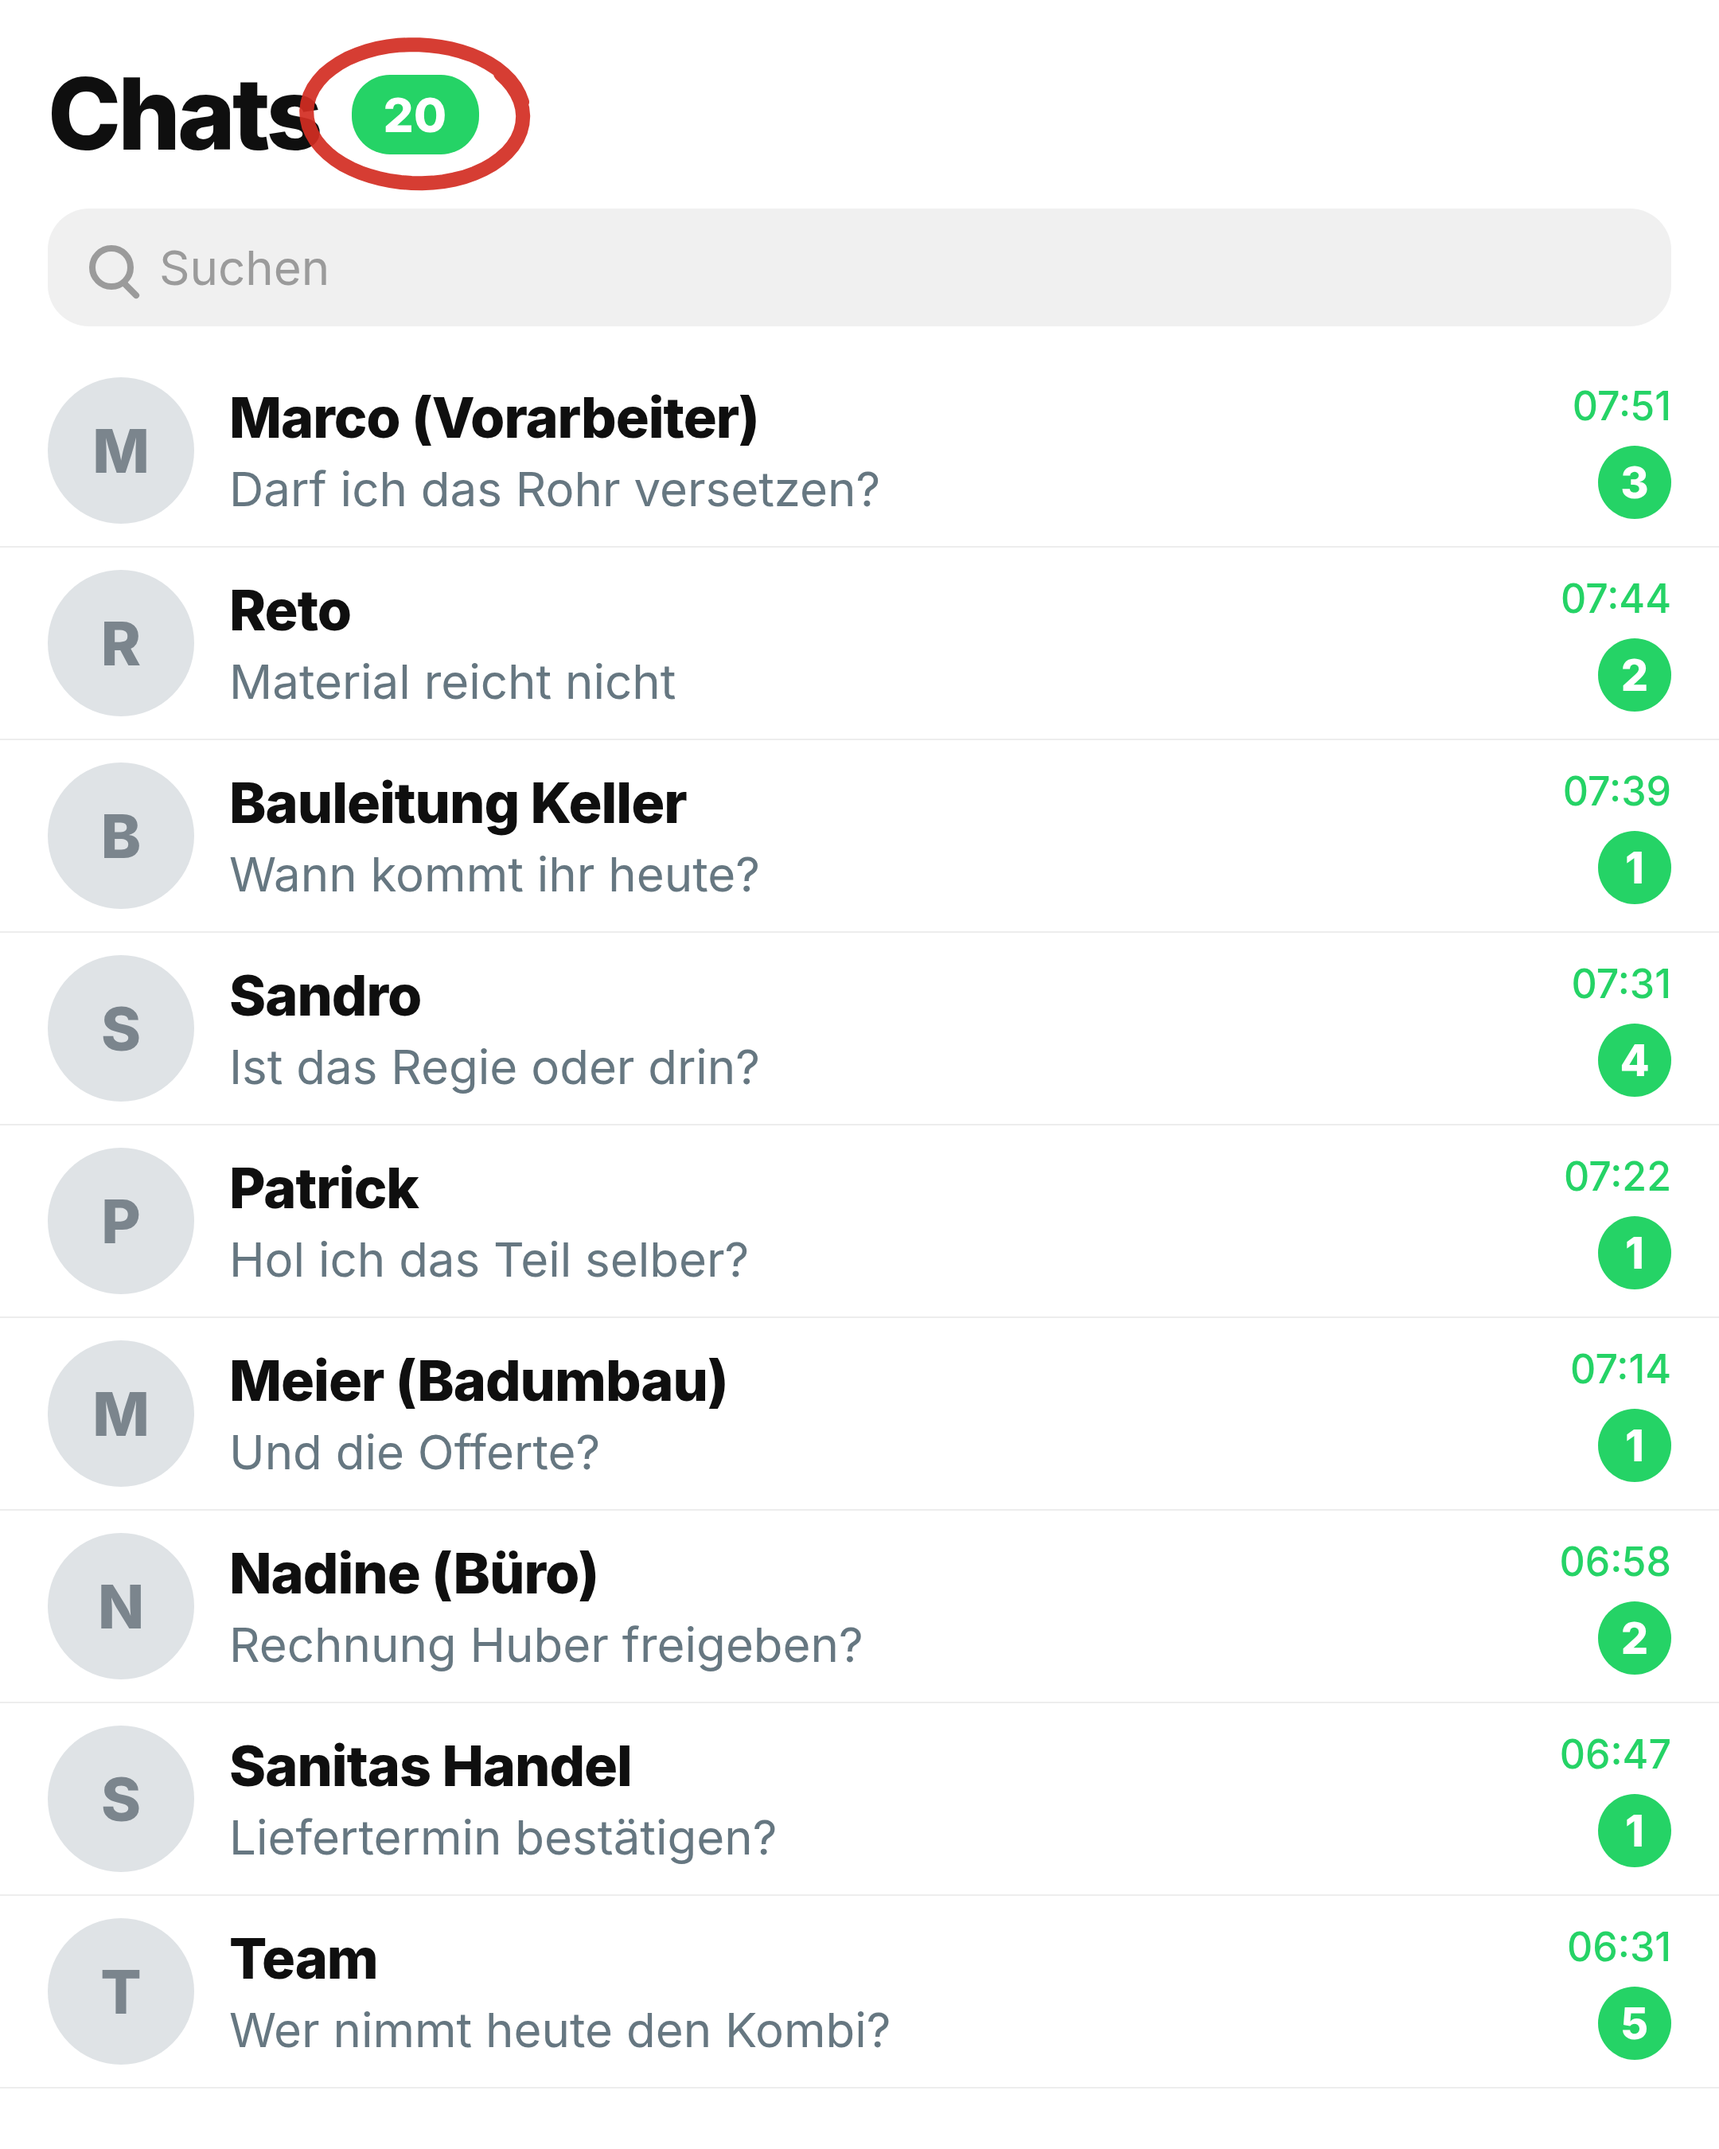
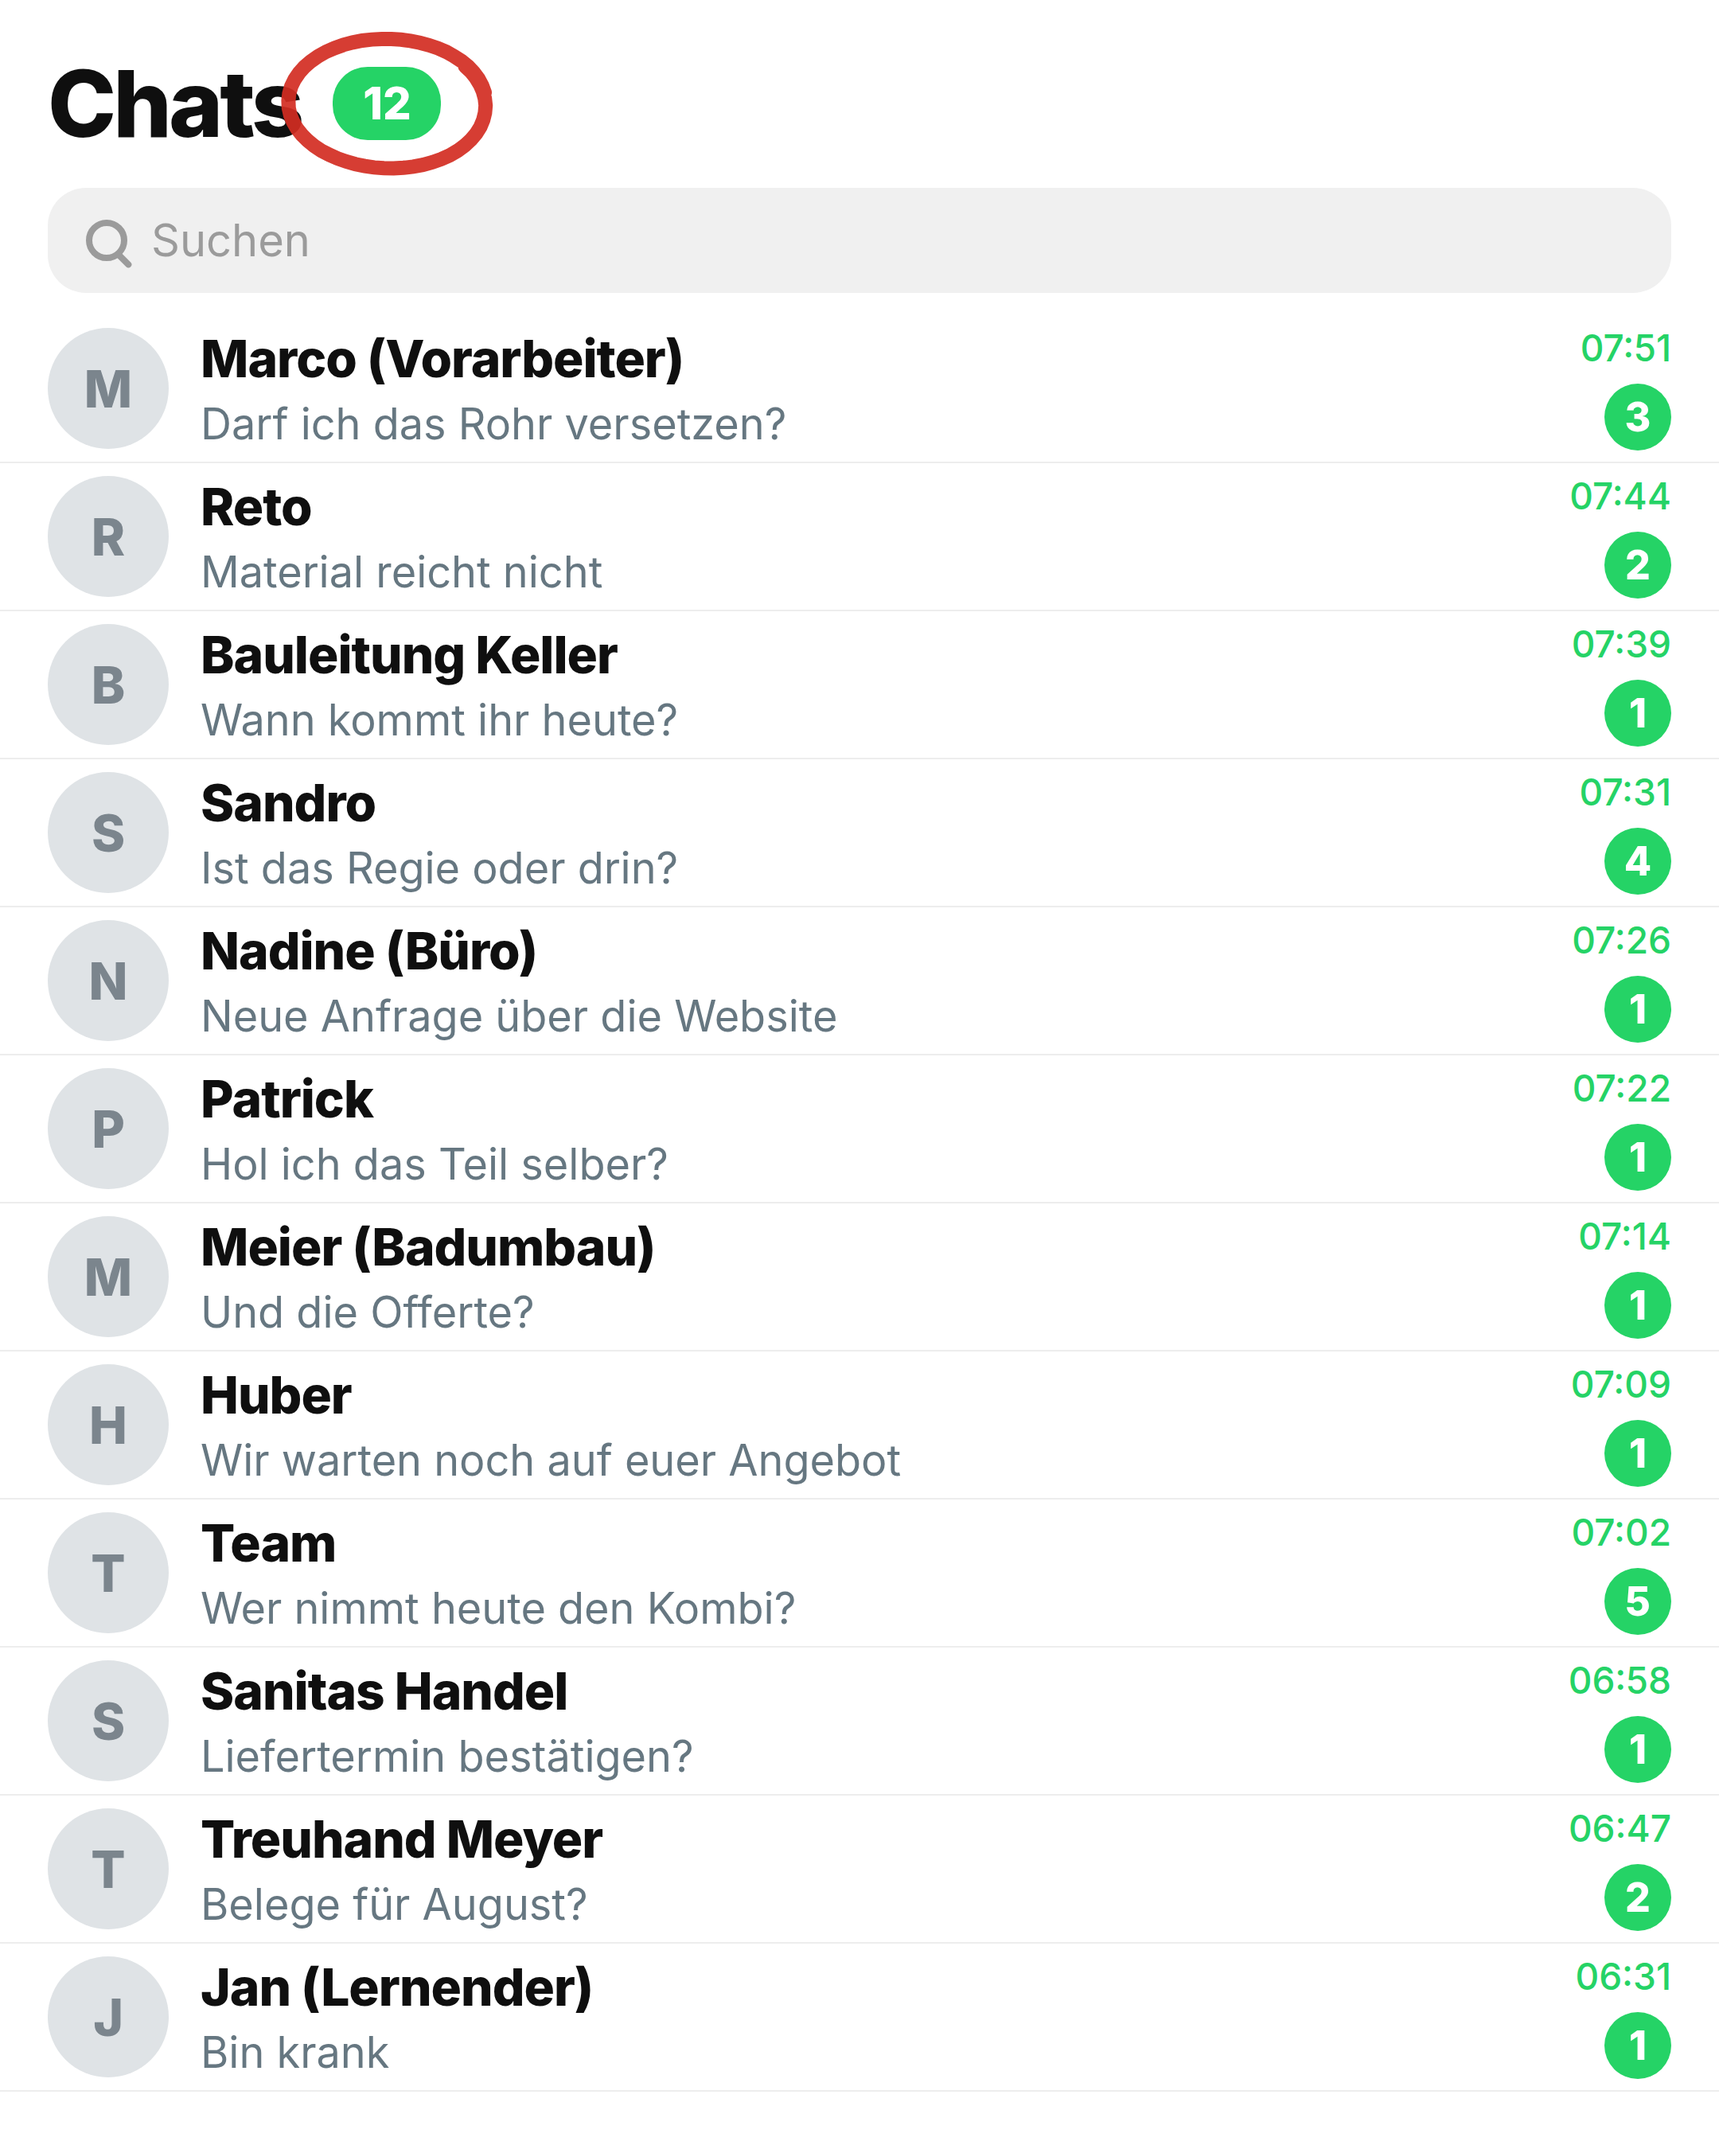
Chatliste auf zwoelf Chats umgebaut, spiegelt den Hook
Statt neun jetzt zwoelf ungelesene Chats zwischen 06:31 und 07:51,
zusammen dreiundzwanzig Nachrichten. Die rot eingekringelte Zwoelf oben
spiegelt den Hook: zwoelf Mitarbeiter, zwoelf Chats, alle wollen eine
Entscheidung.

Die Zeilen decken jetzt genau die vier Ablaeufe ab, die der Post am
Schluss nennt: neue Anfrage ueber die Website, und die Offerte, wir
warten noch auf euer Angebot, Belege fuer August. Dazwischen
Baustellenfragen, damit es nach einem echten Morgen aussieht und nicht
nach einer Verkaufsliste.

Claude-Session: https://claude.ai/code/session_011uqJThEvfyZaZ27wjBcmdt

Changed region(s): [[0.031, 0.0, 0.5273, 0.9644], [0.8995, 0.1556, 0.9926, 0.9644]]

diff --git a/fotos/bild-chatliste.html b/fotos/bild-chatliste.html
@@ -6,32 +6,32 @@
 *{margin:0;padding:0;box-sizing:border-box;}
 .s{width:1080px;height:1350px;position:relative;overflow:hidden;background:#fff;
  font-family:'Inter',Helvetica,Arial,sans-serif;display:flex;flex-direction:column;}
-.top{padding:34px 30px 18px;flex:0 0 auto;}
+.top{padding:30px 30px 14px;flex:0 0 auto;}
 .t1{display:flex;align-items:center;gap:20px;}
-.t1 h1{font-size:62px;font-weight:800;letter-spacing:-2px;color:#0f0f0f;}
-.cnt{background:#25D366;color:#fff;font-size:30px;font-weight:800;padding:7px 20px;border-radius:24px;}
-.search{margin-top:22px;background:#f0f0f0;border-radius:26px;height:74px;display:flex;align-items:center;
- padding:0 26px;gap:16px;font-size:30px;color:#9b9b9b;}
-.mag{width:28px;height:28px;border:4px solid #9b9b9b;border-radius:50%;position:relative;flex:0 0 auto;}
-.mag:after{content:"";position:absolute;right:-9px;bottom:-6px;width:14px;height:4px;background:#9b9b9b;
+.t1 h1{font-size:58px;font-weight:800;letter-spacing:-2px;color:#0f0f0f;}
+.cnt{background:#25D366;color:#fff;font-size:28px;font-weight:800;padding:6px 19px;border-radius:22px;}
+.search{margin-top:18px;background:#f0f0f0;border-radius:24px;height:66px;display:flex;align-items:center;
+ padding:0 24px;gap:15px;font-size:28px;color:#9b9b9b;}
+.mag{width:26px;height:26px;border:4px solid #9b9b9b;border-radius:50%;position:relative;flex:0 0 auto;}
+.mag:after{content:"";position:absolute;right:-8px;bottom:-5px;width:13px;height:4px;background:#9b9b9b;
  transform:rotate(45deg);border-radius:2px;}
 .list{flex:1 1 auto;overflow:hidden;}
-.row{display:flex;align-items:center;gap:22px;padding:14px 30px;border-bottom:1px solid #ededed;}
-.av2{width:92px;height:92px;border-radius:50%;background:#dfe3e6;color:#7b858d;flex:0 0 auto;
- display:flex;align-items:center;justify-content:center;font-size:38px;font-weight:800;}
+.row{display:flex;align-items:center;gap:20px;padding:7px 30px;border-bottom:1px solid #ededed;}
+.av2{width:76px;height:76px;border-radius:50%;background:#dfe3e6;color:#7b858d;flex:0 0 auto;
+ display:flex;align-items:center;justify-content:center;font-size:32px;font-weight:800;}
 .mid{flex:1 1 auto;min-width:0;}
-.nm2{font-size:35px;font-weight:800;color:#0f0f0f;letter-spacing:-.5px;margin-bottom:6px;
+.nm2{font-size:32px;font-weight:800;color:#0f0f0f;letter-spacing:-.5px;margin-bottom:5px;
  white-space:nowrap;overflow:hidden;text-overflow:ellipsis;}
-.pv{font-size:30px;color:#667781;white-space:nowrap;overflow:hidden;text-overflow:ellipsis;}
+.pv{font-size:27px;color:#667781;white-space:nowrap;overflow:hidden;text-overflow:ellipsis;}
 .rgt{flex:0 0 auto;text-align:right;}
-.tm2{font-size:25px;color:#25D366;font-weight:500;margin-bottom:10px;}
-.badge{display:inline-flex;align-items:center;justify-content:center;min-width:46px;height:46px;
- border-radius:23px;background:#25D366;color:#fff;font-size:27px;font-weight:800;padding:0 13px;}
+.tm2{font-size:23px;color:#25D366;font-weight:500;margin-bottom:8px;}
+.badge{display:inline-flex;align-items:center;justify-content:center;min-width:42px;height:42px;
+ border-radius:21px;background:#25D366;color:#fff;font-size:25px;font-weight:800;padding:0 12px;}
 svg.mark{position:absolute;left:0;top:0;width:1080px;height:1350px;pointer-events:none;}
 </style></head><body>
 <div class="s">
   <div class="top">
-    <div class="t1"><h1>Chats</h1><span class="cnt" id="cnt">20</span></div>
+    <div class="t1"><h1>Chats</h1><span class="cnt" id="cnt">12</span></div>
     <div class="search"><span class="mag"></span>Suchen</div>
   </div>
   <div class="list">
@@ -56,6 +56,11 @@ svg.mark{position:absolute;left:0;top:0;width:1080px;height:1350px;pointer-event
       <div class="rgt"><div class="tm2">07:31</div><div class="badge">4</div></div>
     </div>
     <div class="row">
+      <div class="av2">N</div>
+      <div class="mid"><div class="nm2">Nadine (Büro)</div><div class="pv">Neue Anfrage über die Website</div></div>
+      <div class="rgt"><div class="tm2">07:26</div><div class="badge">1</div></div>
+    </div>
+    <div class="row">
       <div class="av2">P</div>
       <div class="mid"><div class="nm2">Patrick</div><div class="pv">Hol ich das Teil selber?</div></div>
       <div class="rgt"><div class="tm2">07:22</div><div class="badge">1</div></div>
@@ -66,19 +71,29 @@ svg.mark{position:absolute;left:0;top:0;width:1080px;height:1350px;pointer-event
       <div class="rgt"><div class="tm2">07:14</div><div class="badge">1</div></div>
     </div>
     <div class="row">
-      <div class="av2">N</div>
-      <div class="mid"><div class="nm2">Nadine (Büro)</div><div class="pv">Rechnung Huber freigeben?</div></div>
-      <div class="rgt"><div class="tm2">06:58</div><div class="badge">2</div></div>
-    </div>
-    <div class="row">
-      <div class="av2">S</div>
-      <div class="mid"><div class="nm2">Sanitas Handel</div><div class="pv">Liefertermin bestätigen?</div></div>
-      <div class="rgt"><div class="tm2">06:47</div><div class="badge">1</div></div>
+      <div class="av2">H</div>
+      <div class="mid"><div class="nm2">Huber</div><div class="pv">Wir warten noch auf euer Angebot</div></div>
+      <div class="rgt"><div class="tm2">07:09</div><div class="badge">1</div></div>
     </div>
     <div class="row">
       <div class="av2">T</div>
       <div class="mid"><div class="nm2">Team</div><div class="pv">Wer nimmt heute den Kombi?</div></div>
-      <div class="rgt"><div class="tm2">06:31</div><div class="badge">5</div></div>
+      <div class="rgt"><div class="tm2">07:02</div><div class="badge">5</div></div>
+    </div>
+    <div class="row">
+      <div class="av2">S</div>
+      <div class="mid"><div class="nm2">Sanitas Handel</div><div class="pv">Liefertermin bestätigen?</div></div>
+      <div class="rgt"><div class="tm2">06:58</div><div class="badge">1</div></div>
+    </div>
+    <div class="row">
+      <div class="av2">T</div>
+      <div class="mid"><div class="nm2">Treuhand Meyer</div><div class="pv">Belege für August?</div></div>
+      <div class="rgt"><div class="tm2">06:47</div><div class="badge">2</div></div>
+    </div>
+    <div class="row">
+      <div class="av2">J</div>
+      <div class="mid"><div class="nm2">Jan (Lernender)</div><div class="pv">Bin krank</div></div>
+      <div class="rgt"><div class="tm2">06:31</div><div class="badge">1</div></div>
     </div>
   </div>
   <svg class="mark" id="mk" viewBox="0 0 1080 1350"></svg>
@@ -86,16 +101,15 @@ svg.mark{position:absolute;left:0;top:0;width:1080px;height:1350px;pointer-event
 <script>
 document.fonts.ready.then(()=>{
 const c=document.getElementById('cnt').getBoundingClientRect();
-const cx=c.left+c.width/2, cy=c.top+c.height/2, rx=c.width/2+26, ry=c.height/2+20;
+const cx=c.left+c.width/2, cy=c.top+c.height/2, rx=c.width/2+26, ry=c.height/2+19;
 const p=[];
 for(let i=0;i<=64;i++){
   const a=(i/64)*Math.PI*2*1.07-0.6;
   const w=1+0.035*Math.sin(a*2.1+0.9);
-  const x=(cx+Math.cos(a)*rx*w), y=(cy+Math.sin(a)*ry*w);
-  p.push((i?'L':'M')+x.toFixed(1)+' '+y.toFixed(1));
+  p.push((i?'L':'M')+(cx+Math.cos(a)*rx*w).toFixed(1)+' '+(cy+Math.sin(a)*ry*w).toFixed(1));
 }
 document.getElementById('mk').innerHTML=
  `<path d="${p.join(' ')}" fill="none" stroke="#d22c22" stroke-width="9" stroke-linecap="round" opacity=".92"/>`;
-window.__mk={cx:Math.round(cx),cy:Math.round(cy),total:20};
+window.__mk={chats:12};
 });
 </script></body></html>

diff --git a/posts/2026-09-22-anderer-betrieb.md b/posts/2026-09-22-anderer-betrieb.md
@@ -3,7 +3,7 @@
 Datum: 2026-09-22 (Dienstag), 07:30
 Format: Standardformel vom 700er, Hook zusätzlich mit hartem Zielgruppen-Filter in Wort eins bis drei.
 Wertzeile: BAUEN, nicht beraten, und die Abläufe beim Namen nennen (Florian, 21.09.). Siehe Regel 21 und 22.
-Bild: fotos/bild-chatliste.png (WhatsApp-Übersicht, neun ungelesene Chats vor acht Uhr, rot eingekringelt)
+Bild: fotos/bild-chatliste.png (WhatsApp-Übersicht, zwölf ungelesene Chats vor acht Uhr, die Zwölf rot eingekringelt)
 Content-Säule: Unbequeme Wahrheit, durchgehend Du
 
 ## Post
@@ -62,6 +62,23 @@ Das ist nachrechenbar und Florian kann es im Kommentarfeld in einer Zeile erklä
 Es ist die Positionierung selbst, zum ersten Mal direkt erzählt. "Dein Betrieb ist gewachsen. Dein System nicht." Bisher wurde immer ein Symptom erzählt (Offerte, Freigabe, Wartezeit). Dieser Post erzählt die Ursache.
 
 Geparkt liegen jetzt zwei fertige Posts: GEPARKT-zwei-tage-krank.md (Kranken-Winkel, ohne Rechnung) und GEPARKT-vier-mann-stehen.md (Wartezeit, mit Rechnung, aber ohne Zielgruppen-Filter im Hook). Der Wartezeit-Post ist gut und kann jederzeit laufen, sobald der Hook einen Filter bekommt.
+
+## Bild
+
+Nicht eine einzelne Unterhaltung, sondern die Chatliste. Zwölf ungelesene Chats, alle zwischen 06:31 und 07:51, zusammen dreiundzwanzig Nachrichten.
+
+Die Zwölf oben ist rot eingekringelt und spiegelt den Hook: zwölf Mitarbeiter, zwölf Chats, und alle wollen eine Entscheidung. Der Leser muss die Verbindung nicht erklärt bekommen, er sieht sie.
+
+Die Zeilen decken absichtlich genau die Abläufe ab, die der Post am Schluss beim Namen nennt:
+- Anfrage: "Neue Anfrage über die Website"
+- Offerte: "Und die Offerte?"
+- Nachfassen: "Wir warten noch auf euer Angebot"
+- Bürokram: "Belege für August?" und "Liefertermin bestätigen?"
+Dazwischen die Baustellenfragen, damit es nach einem echten Morgen aussieht und nicht nach einer Verkaufsliste.
+
+Kein Logo und keine Markenzeichen. Gestaltete Grafik im vertrauten Layout, kein echter Screenshot.
+
+Rendern: node fotos/render-chatliste.js
 
 ## Ergebnis
 
